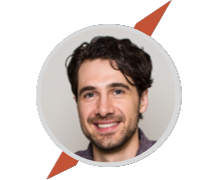
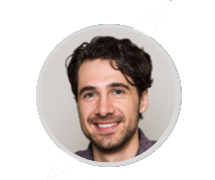
got rid of unneccesary code and fixed testimonial

Changed region(s): [[0.614, 0.0, 0.8093, 0.2222], [0.1953, 0.8333, 0.3628, 1.0]]

diff --git a/client/src/styles/sass/pages/_home.scss b/client/src/styles/sass/pages/_home.scss
@@ -11,6 +11,7 @@
     font-size: 5rem;
     padding-bottom: 15rem;
     @include header-section--primary-MQ();
+    
   }
 
   &--secondary-header {
@@ -27,6 +28,7 @@
   @include homepage-background-properties();
   margin-bottom:0;
   justify-content: flex-start;
+  font-size: $default-font-size;
 
   @media only screen and (max-width: 767px) and (orientation: portrait) {
     background-image: none;
@@ -35,19 +37,17 @@
     top: 53%;
     height: 30vh;
     text-align: center;
+
+    
   }
 
   &--primary-para {
     padding-top: 4rem;
-    font-size: $default-font-size;
-    justify-content: flex-start;
-
     @include quotes-section--primary-MQ();
   }
 
   &--secondary-para {
     padding-top: 5rem;
-    font-size: $default-font-size;
     text-align: center;
     @include quotes-section--secondary-MQ();
   }
@@ -60,7 +60,7 @@
 .four-step-progress-section {
   background-image: url('../../images/4-step-background.png');
   @include homepage-background-properties();
-  margin-top: 0;
+
   height: 50vh;
 
   &--header{
@@ -164,22 +164,21 @@
     }
     width: 50%;
     font-size: 1.1rem;
-
   }
-  @include testinomal-section-MQ()
+  
+  @include testinomal-section-MQ();
+  
 }
 
 .team-section {
   height: 60vh;
   &--header{
     font-size: $default-panel-header;
-   
     align-items: center;
     justify-content: center;
     display: flex;
-    flex-wrap: wrap;
-    flex-direction: column;
   }
+  
   &--members{
     display: flex;
     text-align: center;

diff --git a/client/src/styles/css/main.css b/client/src/styles/css/main.css
@@ -131,6 +131,7 @@ h5 {
   flex-direction: column;
   margin-bottom: 0;
   justify-content: flex-start;
+  font-size: 1.8rem;
 }
 @media only screen and (max-width: 767px) and (orientation: portrait) {
   .quotes-section {
@@ -144,8 +145,6 @@ h5 {
 }
 .quotes-section--primary-para {
   padding-top: 4rem;
-  font-size: 1.8rem;
-  justify-content: flex-start;
 }
 @media only screen and (max-width: 767px) and (orientation: portrait) {
   .quotes-section--primary-para {
@@ -156,7 +155,6 @@ h5 {
 }
 .quotes-section--secondary-para {
   padding-top: 5rem;
-  font-size: 1.8rem;
   text-align: center;
 }
 @media only screen and (max-width: 767px) and (orientation: portrait) {
@@ -185,7 +183,6 @@ h5 {
   display: flex;
   flex-wrap: wrap;
   flex-direction: column;
-  margin-top: 0;
   height: 50vh;
 }
 .four-step-progress-section--header {
@@ -403,7 +400,7 @@ h5 {
 }
 @media only screen and (max-width: 767px) and (orientation: portrait) {
   .testinomal-section {
-    height: 80vh;
+    height: 95vh;
     background-image: none;
     margin-top: 0;
     margin-bottom: 3rem;
@@ -419,6 +416,9 @@ h5 {
     width: 80%;
     font-size: 0.75rem;
   }
+  .testinomal-section--quoter:not(:last-of-type) {
+    margin: 1rem 0;
+  }
 }
 
 .team-section {
@@ -429,8 +429,6 @@ h5 {
   align-items: center;
   justify-content: center;
   display: flex;
-  flex-wrap: wrap;
-  flex-direction: column;
 }
 .team-section--members {
   display: flex;

diff --git a/client/src/styles/sass/abstracts/_MQ-mixins.scss b/client/src/styles/sass/abstracts/_MQ-mixins.scss
@@ -185,7 +185,7 @@
 
 @mixin testinomal-section-MQ() {
   @media only screen and (max-width: 767px) and (orientation: portrait) {
-    height: 80vh;
+    height: 95vh;
     background-image: none;
     margin-top:0;
     margin-bottom: 3rem;
@@ -199,6 +199,10 @@
     &--quoter{
       width: 80%;
       font-size: 0.75rem;
+
+      &:not(:last-of-type) {
+        margin: 1rem  0;
+      }
     }
   }
 }

diff --git a/client/src/styles/sass/abstracts/_mixins.scss b/client/src/styles/sass/abstracts/_mixins.scss
@@ -8,5 +8,4 @@
   display: flex;
   flex-wrap: wrap;
   flex-direction: column;
-  
 }
